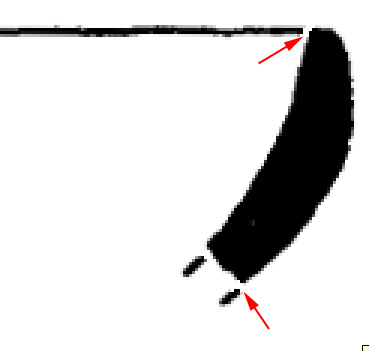
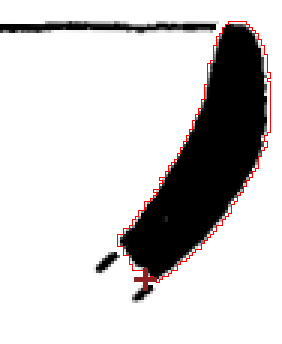
u

Changed region(s): [[0.0, 0.0581, 0.9645, 0.9012], [0.9645, 0.9593, 1.0, 1.0], [0.7092, 0.9012, 0.7376, 0.9593]]

diff --git a/02_digitization/imagej/README.md b/02_digitization/imagej/README.md
@@ -21,3 +21,27 @@ Here are the steps:
 
 ![image2](images/image2.jpg)
 
+ * Press the ‘C’ button to crop.
+ * Now click on the image to zoom in (the magnifier tool is automatically enabled)
+ * Press the Pencil button at the top.  Clean up the section so that the rim is left unattached to anything else.  Move in smooth brush strokes and if you delete too much, hit undo.
+
+![image3](images/image3.jpg)
+
+ * The next part is the most important.  You will select the outline of the rim section.
+ * First, you will try to automatically select the outline using the wand tool at the top.  You must place the wand tool just to the left of the bottom most point on the exterior of the rim (see the red + below).  Hopefully in most cases, this will just work.  However, in many cases, the red selection outline will not follow the rim section the way you want, or there may be small pieces of the rim that need to be cleaned up.  You can use the pencil to make small cleanups on the rim, but don’t delete too much. 
+
+![image4](images/image4.jpg)
+
+ * If the selection tool does not work automatically, if it selects much more than just the rim, you must turn on a threshold first.  This tool is located under the Image Menu - Adjust - Threshold.  Set the second dropdown box to Over/Under, then scroll the second bar to the right until you see all of the ceramic’s section in black.  Now you can try the wand again.
+
+![image5](images/image5.jpg)
+
+ * We want this red selection line to match the outline of the ceramic very carefully, but also be smooth and accurate.  Always ask if you run into a problem.
+ * Next press the ‘L’ button to convert this into an editable line.  A box will come up asking about interpolation number.  This is the number of pixels interpolated to make the line.  More pixels will make a smoother line, but will cut off the edges.  Less pixels will have too many irregularities.  The selection line should seem to smoothly follow the ceramic section.  The default is 3.  You can easily experiment with different values, because you can always go back to 3.  You can use values like 0.2, 1, 4, etc.  Once you are happy with the smooth line, select 0 to continue.
+ * You will now get a line with control points.  We can adjust these control points to complete the correct section.  At the bottom, for a broken ceramic, we want to delete control points to open up the bottom, and make sure that the edges are headed in the broken direction.  First, zoom into the bottom, then select the line tool at the top.  To move a control point, just use the left mouse button and drag.  To delete a control point, hold down the alt key then click the left mouse button.  To add a point, hold down the shift key then click the left mouse button on a nearby point.
+
+![image6](images/image6.jpg)
+
+ * The top can also often use some slight adjustments to be fully inclusive of the ceramic.  Make sure all adjustments end up smooth and follow the rim outline exactly.
+ * Press the ‘P’ button on top to get the list of points.  Click File- Save As to save the points.  You’ll need to move into the points subfolder in order to save the points.  Make sure the file is a .csv.  Change the name of the file so it more closely matches the name of the tif file, but removing the ‘XY_’ from the beginning.  Then save.  Close the coordinates popup box.
+ * Click the ‘N’ button at the top to move to the next image.  If it prompts you asking to save, click No.
